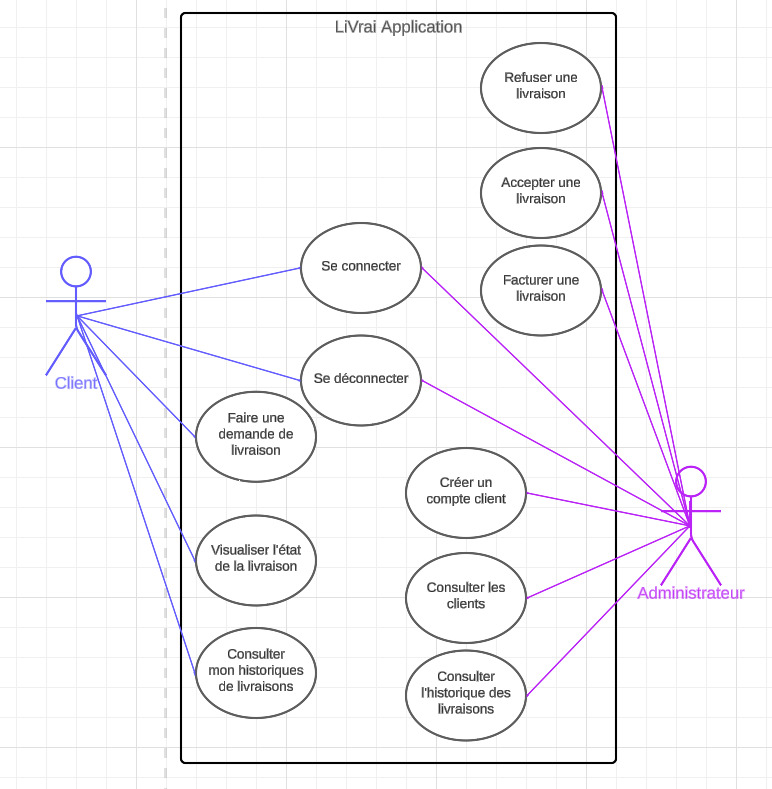
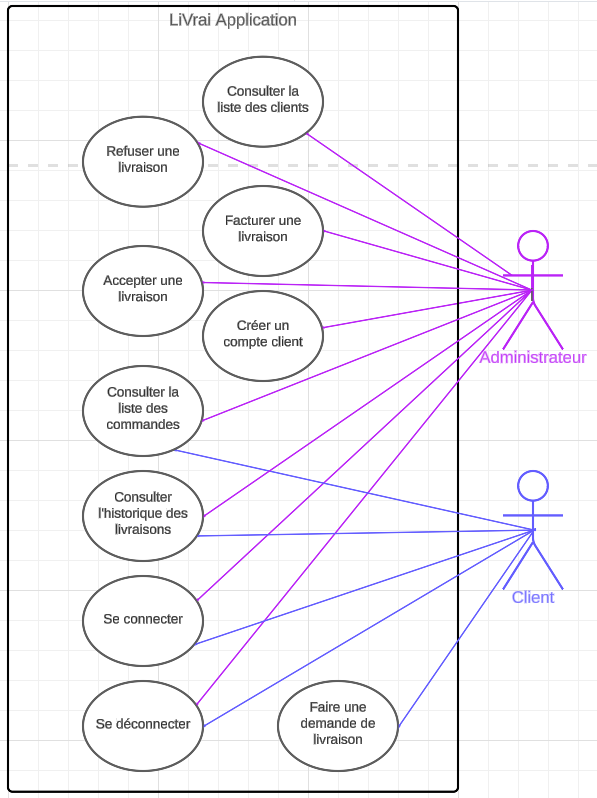
Ending of the docs

diff --git a/Cahier des charges.md b/Cahier des charges.md
@@ -62,6 +62,10 @@ La réussite du projet sera mesurée par la capacité de l'application à permet
 - **Description:** Permet au service commercial et au service de livraisons d'accéder à la facturation.
 - **Besoin client:** Simplifier le processus de facturation tout en assurant un suivi transparent des transactions.
 
+#### Gestion des Stocks
+- **Description:** Permet au service de livraisons de gérer et de suivre les niveaux de stock des produits.
+- **Besoin client:** Assurer la disponibilité des produits et optimiser la gestion des ressources pour une livraison efficace
+
 #### Historique des livraisons
 
 - **Description:** Fournit un accès à l'historique détaillé des livraisons pour les clients.
@@ -69,21 +73,35 @@ La réussite du projet sera mesurée par la capacité de l'application à permet
 
 ## Fonctionnement de l’application
 
-![use cases](use-cases.png)
+![Diagramme d'use cases](use-cases.png)
 
-- **Pour les Clients :**
+#### Fonctionnalités pour le Client
+- **Passer Commande :** Sélectionner et commander des produits ou services.
+- **Annuler une Commande :** Annuler une commande en cours avant son expédition.
+- **Créer un Compte :** S'inscrire pour accéder aux services offerts par LiVrai.
+- **Consulter l'Historique des Livraisons :** Voir un historique détaillé des livraisons précédentes.
+- **Consulter la Liste des Commandes :** Visualiser les commandes passées et en cours.
 
-- Création de Compte : Inscription facile.
-- Passation de Commande : Sélection rapide des produits.
-- Suivi des Livraisons : Localisation en temps réel.
-- Historique des Livraisons : Consultation détaillée.
-- Modification des Infos : Mise à jour des données personnelles.
+#### Fonctionnalités pour le Service Commercial
+- **Consulter la Liste des Clients :** Accéder à la liste complète des clients et à leurs détails.
+- **Vérifier le Paiement :** Confirmer les paiements des commandes des clients.
+- **Gérer les Informations du Compte Client :** Mettre à jour et maintenir les informations des comptes clients.
+- **Consulter l'Historique des Livraisons :** Accéder à l'historique des livraisons pour chaque client.
+- **Consulter la Liste des Commandes :** Visualiser les détails des commandes passées et en cours.
 
-- **Pour le Service Commercial :**
+#### Fonctionnalités pour le Service Livraison
+- **Consulter les Stocks :** Vérifier les niveaux de stock actuels pour une gestion efficace des ressources.
 
-- Admin des Infos Client : Gestion des données client.
-- **Pour le Service Commercial et le Service Livraisons :**
-- Gestion de la Facturation : Création et suivi des factures.
+#### Fonctionnalités pour les Services (Commercial et Livraison)
+- **Générer la Facturation :** Créer des factures pour les commandes, déclenchant l'envoi d'un email au client.
+
+#### Fonctionnalités Communes (Clients, Service Commercial, Service Livraison)
+- **Se Connecter :** Accès sécurisé à leur compte respectif.
+- **Se Déconnecter :** Option de se déconnecter de l'application pour la sécurité du compte.
+- **Réinitialiser le Mot de Passe :** Modifier le mot de passe, déclenchant l'envoi d'un email de réinitialisation.
+- **Suivre l'État de la Livraison :** Accès à des informations en temps réel sur le statut des livraisons.
+- **Modifier les Informations du Compte :** Mettre à jour les informations personnelles et de contact dans leurs comptes.
+
 
 # Impact Social
 
@@ -101,4 +119,46 @@ La réussite du projet sera mesurée par la capacité de l'application à permet
 
 ## Description technique
 
-Présenter l’ensemble des technologies utilisées en les justifiant. Inclure un diagramme de l’architecture de l’application.
+### Technologies Utilisées
+
+#### Frontend
+- **Angular :** Utilisé pour développer une Single Page Application (SPA) moderne et interactive. Angular offre une expérience utilisateur fluide, une meilleure performance, et facilite le développement d'interfaces utilisateur riches et dynamiques.
+
+#### Backend
+- **Java (Dernière version LTS) :** Choisi pour sa robustesse, sa sécurité, et sa portabilité. Java est largement utilisé pour le développement d'applications d'entreprise en raison de sa maturité, de son écosystème riche, et de son support communautaire étendu.
+
+#### Base de données
+- **MySQL :** Une base de données relationnelle choisie pour sa fiabilité, sa performance, et sa compatibilité avec Java. MySQL est idéale pour gérer les données transactionnelles et relationnelles de l'application.
+
+#### Serveur d'application
+- **Spring Boot :** Un framework pour simplifier le processus de configuration et de déploiement des applications Java. Il offre une intégration facile avec des bases de données et des services tiers, tout en supportant une architecture RESTful pour le backend.
+
+#### Sécurité
+- **Spring Security :** Pour la gestion de l'authentification et de l'autorisation, offrant des fonctionnalités robustes pour sécuriser l'application contre les menaces courantes.
+
+#### Intégration et déploiement continus
+- **Docker :** Utilisé pour containeriser l'application, ce qui facilite le déploiement, la mise à l'échelle et la gestion de l'environnement d'exécution.
+
+### Justification des Choix Technologiques
+
+- **Angular :** Permet une interaction client riche et une meilleure expérience utilisateur.
+- **Java :** Langage maîtrisé par l'équipe de développement, assurant une courbe d'apprentissage minimale et une maintenance aisée.
+- **MySQL :** Offre une gestion efficace des données et est largement adoptée dans l'industrie, ce qui en fait un choix fiable.
+- **Spring Boot & Spring Security :** Fournissent une base solide pour construire des applications sécurisées, bien structurées, et maintenables.
+- **Docker :** Assure une portabilité et une cohérence entre les environnements de développement, de test et de production.
+![Diagramme de classes](architecture.png)
+#### Avantages de l'Architecture Client-Serveur pour LiVrai :
+**Simplicité et Clarté**
+    - Structure intuitive qui simplifie le développement, le déploiement et le débogage.
+    - Séparation claire entre le frontend (Angular) et le backend (Java).
+**Centralisation de la Logique Métier**
+    - Toutes les opérations clés sont gérées de manière cohérente et centralisée sur le serveur.
+    - Facilite les mises à jour systématiques et la gestion des données.
+**Sécurité Renforcée**
+    - Le serveur agit comme un intermédiaire sécurisé entre le client et la base de données.
+    - Améliore la sécurité des données et la validation des requêtes.
+
+**Compatibilité avec les Technologies Requises**
+    -Parfaitement alignée avec Java pour le backend et Angular pour le frontend.
+
+![Diagramme de classes](diagramme-classes.png)

diff --git a/Audit.md b/Audit.md
@@ -35,7 +35,7 @@ L'expérience utilisateur actuelle présente des lacunes, notamment l'absence d'
 ### Architecture
 L'application suit une architecture MVC (Modèle-Vue-Contrôleur) avec des servlets Java pour la logique de contrôleur, des JSP pour la vue, et des classes Java pour les modèles de données.
 
-- Décrire et schématiser l’architecture technique de l’application.
+![Schéma de l’architecture technique](schema-architecture-technique.png)
 
 ### Points Forts
 - Architecture MVC : La séparation des préoccupations est respectée avec l'utilisation du modèle MVC.
@@ -48,7 +48,7 @@ L'application suit une architecture MVC (Modèle-Vue-Contrôleur) avec des servl
 - Framework Java EE : L'utilisation d'un framework Java EE comme Spring pourrait simplifier le développement et améliorer la maintenabilité.
 - Conditions de mot de passe peu strictes.
 - Absence de pages responsives.
-- Forte dépendance entre le frontend et le backend.
+- Forte dépendance entre le frontend (JSP) et le backend (servlets Java), limite la modularité et l'adaptabilité, car les modifications dans l'un entraînent souvent des ajustements dans l'autre.
 
 ## Conclusion
 En résumé, Livrai présente une base solide avec son architecture MVC et ses fonctionnalités administratives bien intégrées. Cependant, des lacunes significatives dans l'expérience utilisateur, la sécurité et la dépendance entre le frontend et le backend nécessitent une attention immédiate. Des améliorations ciblées dans ces domaines contribueront à renforcer l'efficacité et la modernité de l'application, assurant ainsi une meilleure satisfaction des utilisateurs.
